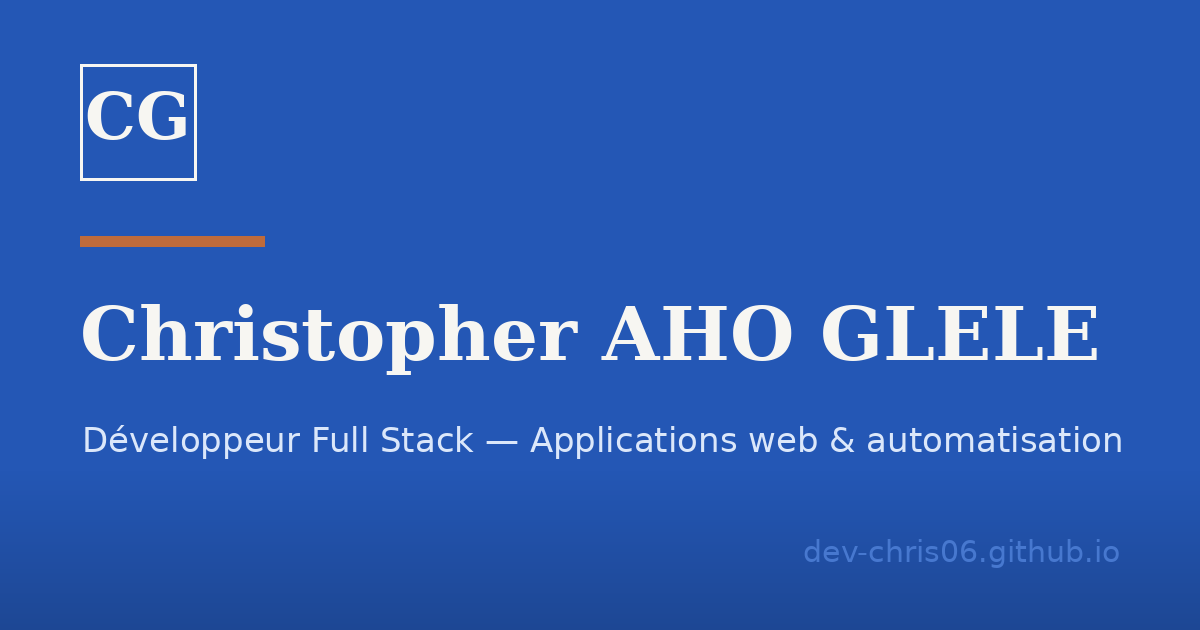
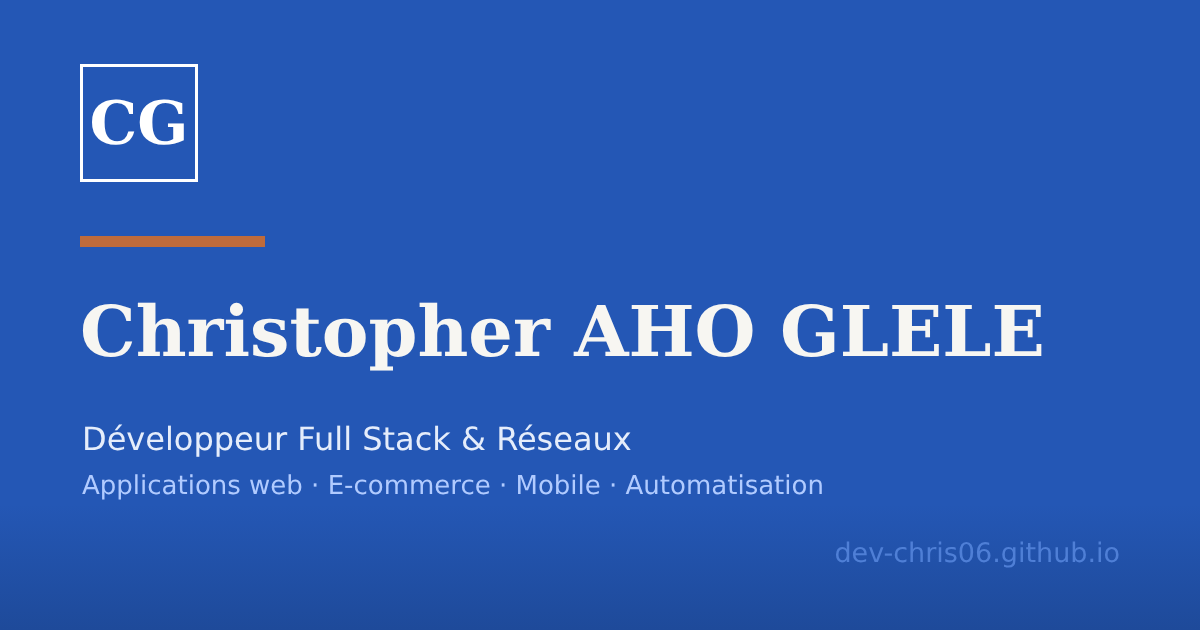
Contenu : double compétence réseaux, refonte du gestionnaire de mots de passe, Loady en équipe, DigiTech sans « seul »

diff --git a/js/projects.js b/js/projects.js
@@ -74,26 +74,26 @@ const projects = [
     title: { fr: "Password Manager", en: "Password Manager" },
     kind: { fr: "Application web full stack", en: "Full-stack web application" },
     description: {
-      fr: "Gestionnaire web multi-utilisateur avec coffre chiffré et extension Chrome pour le remplissage à la demande.",
-      en: "Multi-user web password manager with an encrypted vault and a Chrome extension for on-demand autofill."
+      fr: "Gestionnaire de mots de passe zero-knowledge en cours de refonte : le chiffrement se fait dans le navigateur, le serveur ne voit jamais les secrets.",
+      en: "Zero-knowledge password manager being rebuilt: encryption happens in the browser, and the server never sees the secrets."
     },
     overview: {
-      fr: "Password Manager est un gestionnaire web multi-utilisateur qui organise les identifiants dans un coffre associé à chaque compte. Le dépôt comprend aussi une extension Chrome pour déclencher le remplissage automatique à la demande.",
-      en: "Password Manager is a multi-user web password manager that organizes credentials in a vault for each account. The repository also includes a Chrome extension for on-demand autofill."
+      fr: "Ce gestionnaire de mots de passe est en cours de refonte vers une architecture zero-knowledge. Tout le chiffrement a lieu dans le navigateur ou dans l’extension Chrome : le serveur ne voit jamais ni le mot de passe maître ni les secrets. La première version chiffrait les données côté serveur, ce qui permettait au serveur de les lire ; elle reste consultable sous le tag git avant-refonte.",
+      en: "This password manager is being rebuilt on a zero-knowledge architecture. All encryption happens in the browser or the Chrome extension: the server never sees the master password or the secrets. The first version encrypted data on the server, which let the server read it; it remains available under the avant-refonte git tag."
     },
     highlights: {
-      fr: ["Création de compte, connexion et coffre d’identifiants par utilisateur.", "Ajout, modification, suppression et filtrage des entrées.", "Copie dans le presse-papiers avec effacement automatique après 15 secondes.", "Export et réimport d’une sauvegarde chiffrée.", "Extension Chrome Manifest V3 pour le remplissage à la demande."],
-      en: ["Account creation, login, and a per-user credential vault.", "Add, edit, delete, and filter entries.", "Clipboard copy with automatic clearing after 15 seconds.", "Export and restore an encrypted backup.", "Manifest V3 Chrome extension for on-demand autofill."]
+      fr: ["Chiffrement côté client : Argon2id avec une clé secrète supplémentaire, puis AES-256-GCM.", "Double authentification TOTP obligatoire et codes de secours.", "Coffre sur une seule page avec verrouillage automatique, générateur et sauvegarde chiffrée.", "Vérification des mots de passe exposés dans des fuites (Have I Been Pwned, k-anonymat).", "Extension Chrome qui déchiffre localement et ne remplit que sur le bon domaine."],
+      en: ["Client-side encryption: Argon2id with an additional secret key, then AES-256-GCM.", "Mandatory TOTP two-factor authentication and recovery codes.", "Single-page vault with auto-lock, generator, and encrypted backup.", "Breached password check (Have I Been Pwned, k-anonymity).", "Chrome extension that decrypts locally and only fills on the right domain."]
     },
     technical: {
-      fr: "Application PHP procédurale avec MySQL ou MariaDB et interface JavaScript. Le README décrit AES-256-GCM pour le chiffrement, PBKDF2-SHA-256 (600 000 itérations) pour la dérivation de clé, bcrypt pour le mot de passe maître, ainsi que des sessions HttpOnly, des jetons CSRF et des requêtes PDO préparées.",
-      en: "Procedural PHP application with MySQL or MariaDB and a JavaScript interface. The README documents AES-256-GCM encryption, PBKDF2-SHA-256 (600,000 iterations) for key derivation, bcrypt for the master password, along with HttpOnly sessions, CSRF tokens, and prepared PDO queries."
+      fr: "Le serveur Symfony 7.4 (PHP 8.3+, Doctrine, MySQL) se limite à stocker, authentifier, limiter les tentatives et journaliser. Le client et l’extension sont écrits en TypeScript, avec WebCrypto et Argon2id compilé en WebAssembly. La qualité est suivie avec PHPUnit, PHPStan, Vitest, ESLint, Playwright et une intégration continue GitHub Actions. Le plan de refonte et les décisions techniques sont documentés dans le dépôt.",
+      en: "The Symfony 7.4 server (PHP 8.3+, Doctrine, MySQL) only stores, authenticates, rate-limits, and logs. The client and the extension are written in TypeScript, with WebCrypto and Argon2id compiled to WebAssembly. Quality is tracked with PHPUnit, PHPStan, Vitest, ESLint, Playwright, and GitHub Actions continuous integration. The rebuild plan and technical decisions are documented in the repository."
     },
     note: {
-      fr: "La documentation du dépôt décrit l’architecture et les prérequis de déploiement ; aucune démo publique n’est liée à cette fiche.",
-      en: "The repository documentation describes the architecture and deployment requirements; no public demo is linked from this page."
+      fr: "Refonte en cours : les fonctionnalités ci-dessus décrivent l’application visée, construite étape par étape selon le plan publié dans le dépôt. Aucune démo publique n’est liée à cette fiche.",
+      en: "Rebuild in progress: the features above describe the target application, built step by step according to the plan published in the repository. No public demo is linked from this page."
     },
-    tags: ["PHP", "JavaScript", "MySQL"],
+    tags: ["Symfony", "TypeScript", "WebCrypto", "MySQL"],
     cover: "vault",
     github: "https://github.com/dev-Chris06/password-manager",
     demo: null
@@ -140,8 +140,8 @@ const projects = [
       en: "Android app that downloads public videos from several platforms to the device, with no account or server, and its landing site."
     },
     overview: {
-      fr: "Loady est une application Android menée à deux. Elle télécharge sur le téléphone les vidéos publiques de YouTube, TikTok, Instagram et d’autres plateformes, sans compte, sans serveur Loady et sans synchronisation cloud. J’ai réalisé le site de présentation et je contribue au développement de l’application.",
-      en: "Loady is an Android app built by a team of two. It downloads public videos from YouTube, TikTok, Instagram, and other platforms to the phone, with no account, no Loady server, and no cloud sync. I built the landing site and contribute to the app’s development."
+      fr: "Loady est une application Android développée en équipe. Elle télécharge sur le téléphone les vidéos publiques de YouTube, TikTok, Instagram et d’autres plateformes, sans compte, sans serveur Loady et sans synchronisation cloud. Nous développons ensemble l’application et son site de présentation.",
+      en: "Loady is an Android app built by a team. It downloads public videos from YouTube, TikTok, Instagram, and other platforms to the phone, with no account, no Loady server, and no cloud sync. We build the app and its landing site together."
     },
     highlights: {
       fr: ["Liens de huit plateformes reconnus, par collage ou partage Android.", "Choix du format (MP4, WebM ou MP3) parmi les qualités réellement disponibles.", "Téléchargement en arrière-plan avec notification et nouvelles tentatives en cas de coupure réseau.", "Site de présentation avec thèmes clair et sombre et téléchargement de l’APK."],
@@ -152,8 +152,8 @@ const projects = [
       en: "The app is built with Flutter, with Kotlin on the Android side, and relies on yt-dlp to extract videos. The landing site is a static Astro site with Tailwind CSS, deployed on Vercel; its code lives in a separate repository."
     },
     note: {
-      fr: "Le dépôt de l’application est hébergé sur le compte de mon binôme ; le code du site de présentation est sur github.com/dev-Chris06/loady-site. Seules les vidéos publiques sont prises en charge : les contenus protégés (DRM) sont refusés.",
-      en: "The app repository is hosted on my teammate’s account; the landing site code is at github.com/dev-Chris06/loady-site. Only public videos are supported: protected (DRM) content is refused."
+      fr: "Le dépôt de l’application est hébergé sur le compte d’un membre de l’équipe ; le code du site de présentation est sur github.com/dev-Chris06/loady-site. Seules les vidéos publiques sont prises en charge : les contenus protégés (DRM) sont refusés.",
+      en: "The app repository is hosted on a team member’s account; the landing site code is at github.com/dev-Chris06/loady-site. Only public videos are supported: protected (DRM) content is refused."
     },
     tags: ["Flutter", "Kotlin", "Astro", "Tailwind CSS"],
     cover: "mobile",
@@ -167,12 +167,12 @@ const projects = [
     title: { fr: "DIGITECH — site d’agence", en: "DIGITECH — Agency Website" },
     kind: { fr: "Site vitrine bilingue", en: "Bilingual showcase website" },
     description: {
-      fr: "Site vitrine d’une agence de digitalisation, réalisé seul lors d’un projet tutoré, en français et en anglais.",
-      en: "Showcase website for a digital agency, built on my own during a supervised project, in French and English."
+      fr: "Site vitrine d’une agence de digitalisation, réalisé lors d’un projet tutoré, en français et en anglais.",
+      en: "Showcase website for a digital agency, built during a supervised project, in French and English."
     },
     overview: {
-      fr: "DIGITECH est une agence fictive créée pour un projet tutoré : l’équipe devait fonctionner comme une vraie agence et répondre au besoin d’un client. J’y occupais le rôle de responsable technique et j’ai réalisé seul l’intégralité du site, de la structure des pages à la mise en ligne.",
-      en: "DIGITECH is a fictional agency created for a supervised project: the team had to operate like a real agency and meet a client’s needs. I was the technical lead and built the entire website on my own, from page structure to deployment."
+      fr: "DIGITECH est une agence fictive créée pour un projet tutoré : l’équipe devait fonctionner comme une vraie agence et répondre au besoin d’un client. J’y occupais le rôle de responsable technique et j’ai conçu et développé le site, de la structure des pages à la mise en ligne.",
+      en: "DIGITECH is a fictional agency created for a supervised project: the team had to operate like a real agency and meet a client’s needs. I was the technical lead and designed and built the website, from page structure to deployment."
     },
     highlights: {
       fr: ["Accueil avec services, méthode de travail, réalisations et contact.", "Page équipe, page 404, mentions légales et politique de confidentialité.", "Traduction français / anglais avec sélecteur de langue.", "Formulaire de contact relié à Formspree."],

diff --git a/projets/password-manager.html b/projets/password-manager.html
@@ -4,9 +4,9 @@
   <head>
     <meta charset="UTF-8" />
     <meta name="viewport" content="width=device-width, initial-scale=1.0" />
-    <meta name="description" content="Gestionnaire web multi-utilisateur avec coffre chiffré et extension Chrome pour le remplissage à la demande." />
+    <meta name="description" content="Gestionnaire de mots de passe zero-knowledge en cours de refonte : le chiffrement se fait dans le navigateur, le serveur ne voit jamais les secrets." />
     <meta property="og:title" content="Password Manager | Christopher AHO GLELE" />
-    <meta property="og:description" content="Gestionnaire web multi-utilisateur avec coffre chiffré et extension Chrome pour le remplissage à la demande." />
+    <meta property="og:description" content="Gestionnaire de mots de passe zero-knowledge en cours de refonte : le chiffrement se fait dans le navigateur, le serveur ne voit jamais les secrets." />
     <meta property="og:type" content="website" />
     <meta property="og:url" content="https://dev-Chris06.github.io/projets/password-manager.html" />
     <meta
@@ -152,9 +152,9 @@
       <section class="project-hero" aria-labelledby="project-name">
         <p id="project-kind" class="project-kind">Application web full stack</p>
         <h1 id="project-name">Password Manager</h1>
-        <p id="project-summary" class="project-summary">Gestionnaire web multi-utilisateur avec coffre chiffré et extension Chrome pour le remplissage à la demande.</p>
+        <p id="project-summary" class="project-summary">Gestionnaire de mots de passe zero-knowledge en cours de refonte : le chiffrement se fait dans le navigateur, le serveur ne voit jamais les secrets.</p>
         <h2 class="project-tech-label" data-i18n="detail.techTitle">Technologies</h2>
-        <div id="project-tech-grid" class="tech-grid" role="list" aria-label="Technologies" data-i18n-aria="detail.tags"><span class="project-tag" role="listitem">PHP</span><span class="project-tag" role="listitem">JavaScript</span><span class="project-tag" role="listitem">MySQL</span></div>
+        <div id="project-tech-grid" class="tech-grid" role="list" aria-label="Technologies" data-i18n-aria="detail.tags"><span class="project-tag" role="listitem">Symfony</span><span class="project-tag" role="listitem">TypeScript</span><span class="project-tag" role="listitem">WebCrypto</span><span class="project-tag" role="listitem">MySQL</span></div>
         <div class="project-actions">
           <a
             id="project-demo"
@@ -176,7 +176,7 @@
       <section class="project-overview-layout" aria-labelledby="project-summary-title">
         <div class="prose">
           <h2 id="project-summary-title" data-i18n="detail.overview">Présentation</h2>
-          <p id="project-long-desc">Password Manager est un gestionnaire web multi-utilisateur qui organise les identifiants dans un coffre associé à chaque compte. Le dépôt comprend aussi une extension Chrome pour déclencher le remplissage automatique à la demande.</p>
+          <p id="project-long-desc">Ce gestionnaire de mots de passe est en cours de refonte vers une architecture zero-knowledge. Tout le chiffrement a lieu dans le navigateur ou dans l’extension Chrome : le serveur ne voit jamais ni le mot de passe maître ni les secrets. La première version chiffrait les données côté serveur, ce qui permettait au serveur de les lire ; elle reste consultable sous le tag git avant-refonte.</p>
         </div>
         <figure class="project-main-image">
           <div id="project-detail-cover" class="project-cover project-detail-cover project-cover--vault" style="view-transition-name: cover-password-manager" aria-hidden="true"><span class="cover-label">Application web full stack</span><span class="cover-title">Password Manager</span></div>
@@ -186,17 +186,17 @@
       <div class="project-detail-grid">
         <section class="project-detail-card" aria-labelledby="project-highlights-title">
           <h2 id="project-highlights-title" data-i18n="detail.highlights">Fonctionnalités clés</h2>
-          <ul id="project-highlights" class="project-highlights"><li>Création de compte, connexion et coffre d’identifiants par utilisateur.</li><li>Ajout, modification, suppression et filtrage des entrées.</li><li>Copie dans le presse-papiers avec effacement automatique après 15 secondes.</li><li>Export et réimport d’une sauvegarde chiffrée.</li><li>Extension Chrome Manifest V3 pour le remplissage à la demande.</li></ul>
+          <ul id="project-highlights" class="project-highlights"><li>Chiffrement côté client : Argon2id avec une clé secrète supplémentaire, puis AES-256-GCM.</li><li>Double authentification TOTP obligatoire et codes de secours.</li><li>Coffre sur une seule page avec verrouillage automatique, générateur et sauvegarde chiffrée.</li><li>Vérification des mots de passe exposés dans des fuites (Have I Been Pwned, k-anonymat).</li><li>Extension Chrome qui déchiffre localement et ne remplit que sur le bon domaine.</li></ul>
         </section>
         <section class="project-detail-card" aria-labelledby="project-technical-title">
           <h2 id="project-technical-title" data-i18n="detail.technical">Réalisation technique</h2>
-          <p id="project-technical">Application PHP procédurale avec MySQL ou MariaDB et interface JavaScript. Le README décrit AES-256-GCM pour le chiffrement, PBKDF2-SHA-256 (600 000 itérations) pour la dérivation de clé, bcrypt pour le mot de passe maître, ainsi que des sessions HttpOnly, des jetons CSRF et des requêtes PDO préparées.</p>
+          <p id="project-technical">Le serveur Symfony 7.4 (PHP 8.3+, Doctrine, MySQL) se limite à stocker, authentifier, limiter les tentatives et journaliser. Le client et l’extension sont écrits en TypeScript, avec WebCrypto et Argon2id compilé en WebAssembly. La qualité est suivie avec PHPUnit, PHPStan, Vitest, ESLint, Playwright et une intégration continue GitHub Actions. Le plan de refonte et les décisions techniques sont documentés dans le dépôt.</p>
         </section>
       </div>
 
       <aside id="project-note-wrap" class="project-note" aria-labelledby="project-note-title">
         <h2 id="project-note-title" data-i18n="detail.noteTitle">À savoir</h2>
-        <p id="project-note">La documentation du dépôt décrit l’architecture et les prérequis de déploiement ; aucune démo publique n’est liée à cette fiche.</p>
+        <p id="project-note">Refonte en cours : les fonctionnalités ci-dessus décrivent l’application visée, construite étape par étape selon le plan publié dans le dépôt. Aucune démo publique n’est liée à cette fiche.</p>
       </aside>
 
       <a

diff --git a/index.html b/index.html
@@ -5,15 +5,15 @@
     <meta name="viewport" content="width=device-width, initial-scale=1.0" />
     <meta
       name="description"
-      content="Christopher AHO GLELE, développeur Full Stack. Applications web et automatisations pour les entreprises locales et internationales."
+      content="Christopher AHO GLELE, développeur Full Stack &amp; Réseaux. Applications web, e-commerce, mobile et automatisations pour les entreprises locales et internationales."
     />
     <meta
       property="og:title"
-      content="Christopher AHO GLELE | Développeur Full Stack"
+      content="Christopher AHO GLELE | Développeur Full Stack & Réseaux"
     />
     <meta
       property="og:description"
-      content="Découvrez les applications web, projets et services de Christopher AHO GLELE, développeur Full Stack au Bénin."
+      content="Découvrez les applications web, projets et services de Christopher AHO GLELE, développeur Full Stack &amp; Réseaux au Bénin."
     />
     <meta property="og:type" content="website" />
     <meta property="og:url" content="https://dev-Chris06.github.io/" />
@@ -46,14 +46,14 @@
         "@type": "Person",
         "name": "Mahudjro Shridara Christopher AHO GLELE",
         "url": "https://dev-Chris06.github.io/",
-        "jobTitle": "Développeur Full Stack",
+        "jobTitle": "Développeur Full Stack & Réseaux",
         "sameAs": [
           "https://github.com/dev-Chris06",
           "https://linkedin.com/in/christopher-aho-glele"
         ]
       }
     </script>
-    <title>Christopher AHO GLELE | Développeur Full Stack</title>
+    <title>Christopher AHO GLELE | Développeur Full Stack & Réseaux</title>
 
     <!-- CSS files -->
     <link rel="stylesheet" href="./css/style.css" />
@@ -153,7 +153,7 @@
           <div class="hero-text">
             <p class="hero-status" data-i18n="hero.status">Disponible pour des missions</p>
             <h1 class="hero-title">Christopher <span class="hero-title-accent">AHO GLELE</span></h1>
-            <p class="hero-role" data-i18n="hero.role">Développeur full stack · Bénin</p>
+            <p class="hero-role" data-i18n="hero.role">Développeur full stack &amp; réseaux · Bénin</p>
             <p class="hero-description" data-i18n="hero.description">
               Je développe des applications web et des automatisations adaptées aux opérations de votre entreprise.
             </p>
@@ -204,7 +204,7 @@
               <span class="hero-avatar-online"></span>
             </div>
             <p class="hero-chip hero-chip--web">React · Symfony<small data-i18n="hero.chip.web">Applications web</small></p>
-            <p class="hero-chip hero-chip--auto">Python · VBA<small data-i18n="hero.chip.auto">Automatisations</small></p>
+            <p class="hero-chip hero-chip--auto">n8n · Python<small data-i18n="hero.chip.auto">Automatisations</small></p>
             <p class="hero-chip hero-chip--mobile">Flutter · Kotlin<small data-i18n="hero.chip.mobile">Mobile</small></p>
           </div>
         </div>
@@ -246,7 +246,8 @@
             <li>JavaScript</li><li>TypeScript</li><li>HTML</li><li>CSS</li><li>Tailwind CSS</li>
             <li>React</li><li>Astro</li><li>PHP</li><li>Symfony</li><li>Node.js</li><li>Express</li>
             <li>Flutter</li><li>Dart</li><li>Kotlin</li><li>MySQL</li><li>SQLite</li>
-            <li>Python</li><li>C++</li><li>VBA</li><li>Git</li>
+            <li>WordPress</li><li>n8n</li><li>Python</li><li>C++</li><li>Git</li>
+            <li>TCP/IP</li><li>VLAN</li><li>Routing</li><li>Cisco Packet Tracer</li>
           </ul>
         </div>
       </section>

diff --git a/projets/digitech.html b/projets/digitech.html
@@ -4,9 +4,9 @@
   <head>
     <meta charset="UTF-8" />
     <meta name="viewport" content="width=device-width, initial-scale=1.0" />
-    <meta name="description" content="Site vitrine d’une agence de digitalisation, réalisé seul lors d’un projet tutoré, en français et en anglais." />
+    <meta name="description" content="Site vitrine d’une agence de digitalisation, réalisé lors d’un projet tutoré, en français et en anglais." />
     <meta property="og:title" content="DIGITECH — site d’agence | Christopher AHO GLELE" />
-    <meta property="og:description" content="Site vitrine d’une agence de digitalisation, réalisé seul lors d’un projet tutoré, en français et en anglais." />
+    <meta property="og:description" content="Site vitrine d’une agence de digitalisation, réalisé lors d’un projet tutoré, en français et en anglais." />
     <meta property="og:type" content="website" />
     <meta property="og:url" content="https://dev-Chris06.github.io/projets/digitech.html" />
     <meta
@@ -152,7 +152,7 @@
       <section class="project-hero" aria-labelledby="project-name">
         <p id="project-kind" class="project-kind">Site vitrine bilingue</p>
         <h1 id="project-name">DIGITECH — site d’agence</h1>
-        <p id="project-summary" class="project-summary">Site vitrine d’une agence de digitalisation, réalisé seul lors d’un projet tutoré, en français et en anglais.</p>
+        <p id="project-summary" class="project-summary">Site vitrine d’une agence de digitalisation, réalisé lors d’un projet tutoré, en français et en anglais.</p>
         <h2 class="project-tech-label" data-i18n="detail.techTitle">Technologies</h2>
         <div id="project-tech-grid" class="tech-grid" role="list" aria-label="Technologies" data-i18n-aria="detail.tags"><span class="project-tag" role="listitem">HTML</span><span class="project-tag" role="listitem">CSS</span><span class="project-tag" role="listitem">JavaScript</span></div>
         <div class="project-actions">
@@ -176,7 +176,7 @@
       <section class="project-overview-layout" aria-labelledby="project-summary-title">
         <div class="prose">
           <h2 id="project-summary-title" data-i18n="detail.overview">Présentation</h2>
-          <p id="project-long-desc">DIGITECH est une agence fictive créée pour un projet tutoré : l’équipe devait fonctionner comme une vraie agence et répondre au besoin d’un client. J’y occupais le rôle de responsable technique et j’ai réalisé seul l’intégralité du site, de la structure des pages à la mise en ligne.</p>
+          <p id="project-long-desc">DIGITECH est une agence fictive créée pour un projet tutoré : l’équipe devait fonctionner comme une vraie agence et répondre au besoin d’un client. J’y occupais le rôle de responsable technique et j’ai conçu et développé le site, de la structure des pages à la mise en ligne.</p>
         </div>
         <figure class="project-main-image">
           <div id="project-detail-cover" class="project-cover project-detail-cover project-cover--agency" style="view-transition-name: cover-digitech" aria-hidden="true"><span class="cover-label">Site vitrine bilingue</span><span class="cover-title">DIGITECH — site d’agence</span></div>

diff --git a/projets/loady.html b/projets/loady.html
@@ -176,7 +176,7 @@
       <section class="project-overview-layout" aria-labelledby="project-summary-title">
         <div class="prose">
           <h2 id="project-summary-title" data-i18n="detail.overview">Présentation</h2>
-          <p id="project-long-desc">Loady est une application Android menée à deux. Elle télécharge sur le téléphone les vidéos publiques de YouTube, TikTok, Instagram et d’autres plateformes, sans compte, sans serveur Loady et sans synchronisation cloud. J’ai réalisé le site de présentation et je contribue au développement de l’application.</p>
+          <p id="project-long-desc">Loady est une application Android développée en équipe. Elle télécharge sur le téléphone les vidéos publiques de YouTube, TikTok, Instagram et d’autres plateformes, sans compte, sans serveur Loady et sans synchronisation cloud. Nous développons ensemble l’application et son site de présentation.</p>
         </div>
         <figure class="project-main-image">
           <div id="project-detail-cover" class="project-cover project-detail-cover project-cover--mobile" style="view-transition-name: cover-loady" aria-hidden="true"><span class="cover-label">Application Android et site de présentation</span><span class="cover-title">Loady</span></div>
@@ -196,7 +196,7 @@
 
       <aside id="project-note-wrap" class="project-note" aria-labelledby="project-note-title">
         <h2 id="project-note-title" data-i18n="detail.noteTitle">À savoir</h2>
-        <p id="project-note">Le dépôt de l’application est hébergé sur le compte de mon binôme ; le code du site de présentation est sur github.com/dev-Chris06/loady-site. Seules les vidéos publiques sont prises en charge : les contenus protégés (DRM) sont refusés.</p>
+        <p id="project-note">Le dépôt de l’application est hébergé sur le compte d’un membre de l’équipe ; le code du site de présentation est sur github.com/dev-Chris06/loady-site. Seules les vidéos publiques sont prises en charge : les contenus protégés (DRM) sont refusés.</p>
       </aside>
 
       <a

diff --git a/js/lang.js b/js/lang.js
@@ -15,7 +15,7 @@ const translations = {
     "nav.skip": "Passer au contenu",
     "nav.breadcrumb": "Fil d'ariane",
     "hero.status": "Disponible pour des missions",
-    "hero.role": "Développeur full stack · Bénin",
+    "hero.role": "Développeur full stack & réseaux · Bénin",
     "hero.socials": "Me retrouver en ligne",
     "hero.email": "E-mail",
     "hero.chip.web": "Applications web",
@@ -134,7 +134,7 @@ const translations = {
     "nav.skip": "Skip to content",
     "nav.breadcrumb": "Breadcrumb",
     "hero.status": "Available for freelance work",
-    "hero.role": "Full-stack developer · Benin",
+    "hero.role": "Full-stack & networking developer · Benin",
     "hero.socials": "Find me online",
     "hero.email": "Email",
     "hero.chip.web": "Web apps",
